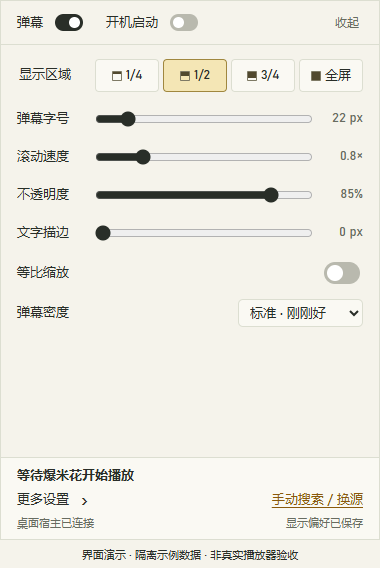
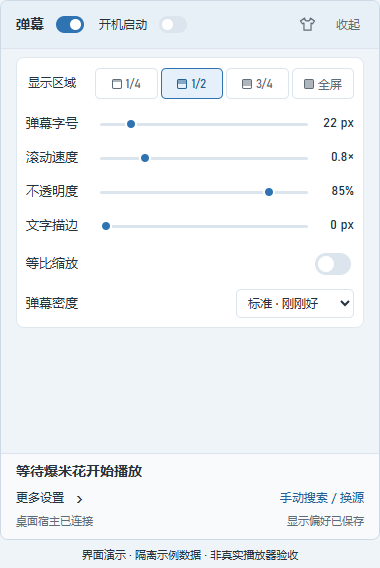
docs: 统一 Beta6 更新记录、下载说明与新版界面截图

diff --git a/README.md b/README.md
@@ -8,9 +8,9 @@
 
 它是配合播放器使用的小工具，不提供影视资源。获取弹幕需要联网。
 
-**[下载 Beta4](https://github.com/ghjkllasdf-fake/Baomihua-danmu-companion/releases/tag/v0.1.1-beta.4)** · [版本更新](CHANGELOG.md) · [反馈问题](https://github.com/ghjkllasdf-fake/Baomihua-danmu-companion/issues)
+**[下载 Beta6](https://github.com/ghjkllasdf-fake/Baomihua-danmu-companion/releases/tag/v0.1.1-beta.6)** · [版本更新](CHANGELOG.md) · [反馈问题](https://github.com/ghjkllasdf-fake/Baomihua-danmu-companion/issues)
 
-当前代码已加入 `0.1.1-beta.6` 直接选集识季和跳转缓冲修复，用于本机试用；上面的链接仍对应已公开发布的 Beta4。
+**Beta6 更新**：修复直接点选剧集时的识季问题，以及大幅跳转后弹幕反复入场、消失的问题；同时加入四套皮肤、内置来源批量选择和更清楚的匹配失败提示。详见 [更新记录](CHANGELOG.md)。
 
 ## 能做什么
 
@@ -18,6 +18,7 @@
 - **多季剧分别匹配**：核对当前季数后搜索，兼容“第二季”“第2季”“S02E02”等写法；不同季分别绑定来源，其他季的弹幕不会因为数量更多而被选中。
 - **跟随视频播放**：响应播放、暂停和进度跳转。弹幕只显示在视频窗口上，视频最小化后一起隐藏，其他窗口也能盖住它。
 - **随手调整显示**：区域、字号、速度、不透明度、描边、缩放和密度都在托盘面板里。
+- **四套外观可选**：原生清爽、流光玻璃、WinUI、石墨工作室，选择后下次启动继续使用。
 - **手动搜索、换源**：自动匹配不合适时，自己选择作品、来源和分集。
 - **过滤和校时**：屏蔽关键词、合并重复弹幕，调整时间偏移；也可以按需开启 Windows 开机启动。
 
@@ -29,12 +30,12 @@
 
 **没有自己的弹幕服务，选 includeAPI 安装版。** 它会自动启动包内的本机服务，无需填写地址。已有可用弹幕 API 的用户可以选普通版，文件更小。
 
-本文对应 `0.1.1-beta.4`：
+本文对应 `0.1.1-beta.6`：
 
 | 版本 | 适合谁 | 安装包 | 免安装包 |
 |---|---|---|---|
-| includeAPI 版 | 想直接使用，不自行部署服务 | [下载安装版](https://github.com/ghjkllasdf-fake/Baomihua-danmu-companion/releases/download/v0.1.1-beta.4/DanmuCompanion-0.1.1-beta.4-win-x64-includeAPI-setup.exe) | [下载 Portable](https://github.com/ghjkllasdf-fake/Baomihua-danmu-companion/releases/download/v0.1.1-beta.4/DanmuCompanion-0.1.1-beta.4-win-x64-includeAPI-portable.zip) |
-| 普通版 | 已有兼容的弹幕 API 地址 | [下载安装版](https://github.com/ghjkllasdf-fake/Baomihua-danmu-companion/releases/download/v0.1.1-beta.4/DanmuCompanion-0.1.1-beta.4-win-x64-setup.exe) | [下载 Portable](https://github.com/ghjkllasdf-fake/Baomihua-danmu-companion/releases/download/v0.1.1-beta.4/DanmuCompanion-0.1.1-beta.4-win-x64-portable.zip) |
+| includeAPI 版 | 想直接使用，不自行部署服务 | [下载安装版](https://github.com/ghjkllasdf-fake/Baomihua-danmu-companion/releases/download/v0.1.1-beta.6/DanmuCompanion-0.1.1-beta.6-win-x64-includeAPI-setup.exe) | [下载 Portable](https://github.com/ghjkllasdf-fake/Baomihua-danmu-companion/releases/download/v0.1.1-beta.6/DanmuCompanion-0.1.1-beta.6-win-x64-includeAPI-portable.zip) |
+| 普通版 | 已有兼容的弹幕 API 地址 | [下载安装版](https://github.com/ghjkllasdf-fake/Baomihua-danmu-companion/releases/download/v0.1.1-beta.6/DanmuCompanion-0.1.1-beta.6-win-x64-setup.exe) | [下载 Portable](https://github.com/ghjkllasdf-fake/Baomihua-danmu-companion/releases/download/v0.1.1-beta.6/DanmuCompanion-0.1.1-beta.6-win-x64-portable.zip) |
 
 - **安装版**：运行下载的安装包，按提示完成安装，再从开始菜单打开“爆米花弹幕伴侣”或“爆米花弹幕伴侣 includeAPI”。默认安装到当前用户目录。
 - **Portable 版**：把 ZIP **完整解压**到本地可写文件夹，再运行其中的 `DanmuCompanion.exe`。请保留整个文件夹，不要只复制 EXE，也不要在压缩软件里直接运行。
@@ -50,6 +51,8 @@
 3. **在爆米花里播放视频。** 伴侣会自动识别、匹配并加载弹幕，面板底部可以查看当前作品、来源和弹幕数量。
 
 搜索和装载进度会显示在视频右上角，首条弹幕出现后提示渐隐。遇到临时网络问题或没有搜索结果时，自动匹配最多尝试三轮；仍未找到会提示手动搜索，视频上的失败提示在五秒后消失。
+
+最终匹配失败时，面板底部的“手动搜索 / 换源”会突出显示“需处理”。点击后可以自行搜索；切换作品或开始处理后，提示恢复普通状态。
 
 ### 普通版：填写 API 地址
 
@@ -86,6 +89,24 @@ https://danmu.example.com/YOUR_TOKEN/api/v2
 | 更多设置 | 调整来源类型、重复弹幕合并、屏蔽关键词和时间偏移；includeAPI 版也在这里选择弹幕来源。 |
 
 首次使用默认字号为 22 px、速度为 0.8×、不透明度为 85%、描边为 0 px，等比缩放关闭。设置会自动保存。
+
+### 更换皮肤与选择内置来源
+
+点击右上角的 **衣服图标**，选择原生清爽、流光玻璃、WinUI 或石墨工作室。外观会自动保存；流光玻璃的透明效果取决于 Windows 支持和系统设置，也可以开启“减少透明效果”使用实色底。
+
+includeAPI 版在“更多设置 → 选择弹幕来源”中调整来源。可以“全选”“全不选”或逐项勾选、上移排序，最后点击 **“应用来源”**。至少保留一个来源；勾选更多来源不代表每个来源都能返回结果，也可能增加等待时间。
+
+| 外观与皮肤 | includeAPI 来源选择 |
+|---|---|
+| ![Beta6 外观与皮肤](docs/assets/tray-appearance.png) | ![Beta6 内置来源批量选择](docs/assets/tray-includeapi-sources.png) |
+
+*界面截图为当前 React 界面配隔离示例数据；玻璃皮肤的实际桌面透色不能由浏览器截图展示。*
+
+### 观看效果
+
+![自制视频画面与从右向左滚动的弹幕效果示意](docs/assets/preview-playback.png)
+
+*视频画面为本项目自制演示素材，弹幕使用生产原生渲染器绘制并叠合展示；此图不作为真实播放器、性能或多屏验收证据。*
 
 ### 手动搜索或换源
 
@@ -147,7 +168,7 @@ https://danmu.example.com/YOUR_TOKEN/api/v2
 - 普通版的 API 地址使用当前 Windows 用户的加密保护，保存在 `%LOCALAPPDATA%\BaomihuaDanmuCompanion\api.dat`。换电脑或 Windows 账户后需要重新填写。
 - 显示设置保存在 `%LOCALAPPDATA%\BaomihuaDanmuCompanion\app\preferences.json`，普通版和 includeAPI 版共用。
 - 搜索片名和获取弹幕的请求会发送到你配置的服务，或 includeAPI 中启用的来源。本机服务也需要联网获取弹幕，请使用自己信任的服务。
-- 为补足播放窗口省略的季数，开发版会只读核对爆米花已有的首页缓存或详情页中的当前季、集、文件名和时长。不会修改播放器缓存，不解析凭据端点、不解密数据库，也不上传文件路径或缓存。信息不足或冲突时会提示处理，不默认猜第一季。
+- 为补足播放窗口省略的季数，伴侣会只读核对爆米花已有的首页缓存或详情页中的当前季、集、文件名和时长。不会修改播放器缓存，不解析凭据端点、不解密数据库，也不上传文件路径或缓存。信息不足或冲突时会提示处理，不默认猜第一季。
 
 ## 更多说明
 

diff --git a/CHANGELOG.md b/CHANGELOG.md
@@ -1,19 +1,32 @@
 # 更新记录
 
-## 0.1.1-beta.6 · 2026-10-30（本地修复候选）
+## 0.1.1-beta.6 · 2026-10-30
+
+本次将多季匹配、跳转修复和界面更新统一发布，包含此前仅供本机试用的 Beta5 改动。
+
+### 界面与操作
+
+- 新增四套可保存的皮肤：原生清爽、流光玻璃、WinUI、石墨工作室。点击面板右上角的衣服图标切换；系统不支持透明材质或开启“减少透明效果”时使用实色底。
+- 修正流光玻璃和 WinUI 二级页面的导航底色与滚动区域，返回按钮不再被滚动内容遮住，键盘焦点边框保留完整。
+- includeAPI 来源列表增加“全选”“全不选”，保留已选来源的优先顺序；点击“应用来源”才生效，未选择任何来源时会提示并禁止提交。
+- 自动匹配最终失败时，“手动搜索 / 换源”会突出显示“需处理”；开始处理或切换作品后恢复普通状态，不抢走当前输入焦点。
+
+### 播放与匹配
 
 - 修复直接点选某集后仍无法识别季数的问题：爆米花详情页可能只给出截断到分钟的时长，现在按其显示精度校验，同时继续核对作品、季数、文件名和分集名。
 - 修复大幅跳转后弹幕反复入场、消失的问题：缓冲时即使 Windows 仍显示播放中，也不会把停在同一位置的进度当成连续跳转。
 - 缓冲时保留已显示弹幕，进度恢复后继续向左滚动；短暂缺失播放状态不再重复清场，真正前后跳转仍会清除旧位置的弹幕。
 - 当新进度已经明确、播放状态尚未返回时，先隔离旧场景，等待真实状态恢复后继续。
-
-## 0.1.1-beta.5 · 2026-10-30（本地修复候选）
-
 - 修复多季剧自动搜索失败，保留并统一中文季名、Season、SxxExx 和常见数字续季名称。
 - 当前季数不在播放窗口时，只读核对爆米花已有的首页缓存或详情页；从最近观看直接播放也可识别。同一窗口顺序连播沿用已核实季数，换窗口、跳集或同集数更换媒体时重新核对。
 - 搜索先带季数，再回退片名并合并来源；先排除其他季，再执行数量比较或 includeAPI 的最多3个候选抽样。
 - 不同季分别绑定来源，跨季同一集数也会取消旧请求，防止晚返回结果覆盖新季。保留缺集／零弹幕换源、三轮重试和原有超时、鉴权、限流边界。
 - 无法可靠确定季数时提示处理，不按弹幕数量猜季数。没有新增播放器输入操作、账号读取、缓存写入或观看历史保存。
+
+### 下载与升级
+
+- 普通版和 includeAPI 版统一提供安装包、免安装包、对应源码与 SHA256 校验文件；README 同步新版下载链接和界面说明。
+- 升级前请从托盘退出旧版。Portable 请解压到新文件夹，保留个人设置；本版仍为测试版，完整多屏、Windows 10 和长期播放验收尚未完成。
 
 ## 0.1.1-beta.4 · 2026-10-29
 

diff --git a/docs/INCLUDEAPI-USER-GUIDE.md b/docs/INCLUDEAPI-USER-GUIDE.md
@@ -1,5 +1,7 @@
 # 爆米花弹幕伴侣 0.1.1-beta.6 includeAPI
 
+Beta6 与普通版同步修复直接选集识季和大幅跳转后弹幕反复入场的问题，包含此前仅供本机试用的 Beta5 改动。右上角衣服图标可切换四套皮肤，外观自动保存；系统不支持透明效果时使用实色底。
+
 这是额外提供的 Windows x64 测试版本：包含本机弹幕 API、私有 Node 运行库和自包含 .NET。启动伴侣时自动启动后台 API，并自动连接；不需要手动安装 Node、npm、PowerShell 或填写 API 地址。它不包含网易爆米花播放器、影视资源或离线弹幕库。
 
 ## 安装和运行
@@ -14,7 +16,7 @@
 
 ## 弹幕源
 
-主面板不显示 API 地址输入；“更多设置”显示本机服务状态和“选择弹幕来源”，提供来源启用／关闭、调整顺序、恢复默认和应用。默认来源沿用上游：豆瓣、360、人人视频、韩剧TV。至少保留一个来源；更改来源并应用会重启本机 API，并清除旧连接的请求与弹幕。未能启动时，可再次“应用”当前选择重试；不会后台无限重启。
+主面板不显示 API 地址输入；“更多设置”显示本机服务状态和“选择弹幕来源”，提供来源启用／关闭、全选、全不选、调整顺序、恢复默认和应用。默认来源沿用上游：豆瓣、360、人人视频、韩剧TV。至少保留一个来源；“全不选”只清空待应用的选择，不会立即关闭服务，空选择不能提交。更改来源并点击“应用来源”会重启本机 API，并清除旧连接的请求与弹幕。未能启动时，可再次“应用”当前选择重试；不会后台无限重启。
 
 自动匹配每轮最多随机尝试 3 个符合当前作品的候选来源，在实际尝试的候选中选弹幕最多者，不声称穷举所有来源。同剧绑定来源的尝试也计入本轮 3 个的预算；不足 3 个时只尝试实际存在的候选。搜索阶段仍使用所启用的上游搜索源。
 

diff --git a/docs/DEVELOPMENT.md b/docs/DEVELOPMENT.md
@@ -105,7 +105,7 @@ API 使用 `ProtectedData` 的 `CurrentUser` 范围加密，独立存于 `%LOCAL
 
 发布前运行 `npm.cmd --prefix ui audit --json`。提交源文件后可运行 `node scripts/Test-PublicPrivacy.mjs` 检查 Git 索引；它不会上传数据。任何日志、缓存、私人配置、私人截图或未审查二进制都不应进入 Git。项目原创部分使用 MIT，组包必须包含根目录 `LICENSE`；第三方许可保留原文。
 
-当前托盘面板图在 UI 构建后运行 `node scripts/Capture-TrayScreenshots.mjs`；四张图使用隔离 fixture，明确标注演示，不访问真实 API 或播放器。原有视频效果示意仍可依次运行 `scripts/Capture-ReadmeOverlay.ps1`（PS7，STA）和 `node scripts/Capture-ReadmeScreenshots.mjs` 重建。前两张为真实 React 界面配隔离 fixture，第三张为自制动画视频画面与生产原生渲染器输出的1:1叠合示意，均明确标注演示用途，不访问用户播放器或真实 API。临时 WebM 位于忽略的 `.cache/readme-demo/`，只提交已审查的三张 PNG。
+当前托盘面板图在 UI 构建后运行 `node scripts/Capture-TrayScreenshots.mjs`；六张图（含皮肤和来源批量选择）使用隔离 fixture，明确标注演示，不访问真实 API 或播放器。原有视频效果示意仍可依次运行 `scripts/Capture-ReadmeOverlay.ps1`（PS7，STA）和 `node scripts/Capture-ReadmeScreenshots.mjs` 重建。前两张为真实 React 界面配隔离 fixture，第三张为自制动画视频画面与生产原生渲染器输出的1:1叠合示意，均明确标注演示用途，不访问用户播放器或真实 API。临时 WebM 位于忽略的 `.cache/readme-demo/`，只提交已审查的三张 PNG。
 
 ## 质量约定
 

diff --git a/docs/BETA-USER-GUIDE.md b/docs/BETA-USER-GUIDE.md
@@ -1,5 +1,9 @@
 # 爆米花弹幕伴侣 0.1.1-beta.6（托盘轻面板）
 
+Beta6 统一包含多季匹配、直接选集识季、大幅跳转后弹幕连续性修复，以及四套皮肤和来源选择界面更新。它也包含此前本机试用 Beta5 的修复。
+
+右上角衣服图标可以切换原生清爽、流光玻璃、WinUI、石墨工作室，选择会自动保存。透明效果受 Windows 支持和设置影响；开启“减少透明效果”后使用实色底。自动匹配最终失败时，底部“手动搜索 / 换源”会突出显示“需处理”，方便继续操作。
+
 本版提供 Windows x64 安装版和 Portable 版。主程序、后台播放器采样和开机启动均直接使用 EXE，不再调用 PowerShell，不需要调整执行策略。
 
 两版均包含 .NET 10.0.14，不需要另装 Node、npm、.NET SDK 或 .NET Runtime；改为复用系统的稳定版 WebView2 Evergreen Runtime（124 或更新版本），不再捆绑约 673 MiB 的私有浏览器。程序安装／解压大小约 200 MiB，下载包是压缩体积，会更小。请完整保留包内 DLL 和资源，“EXE 程序”不等于只复制一个 EXE。
